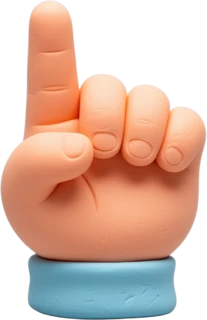
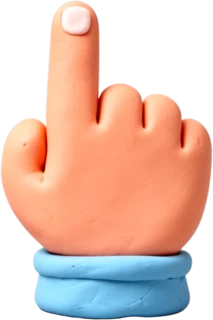
Bystrzakowo: rączka od strony grzbietu dłoni (widok z góry, jak ręka stukająca w ekran), nowy czubek palca

diff --git a/games/bystrzakowo/scripts/gen-art.ts b/games/bystrzakowo/scripts/gen-art.ts
@@ -392,9 +392,17 @@ if (process.argv.includes('--raczka')) {
     { out: 'ui', prefix: 'raczka-b', args: ['--workflow', 'flux2-sprite', '--count', '4', '--prompt', hand('a simple rounded cartoon pointing hand icon like a tutorial cursor, index finger pointing up, thumb tucked to the side, three fingers folded, white glove-like smooth plasticine with a soft orange outline cuff, exactly five fingers')] },
   );
 }
+if (process.argv.includes('--raczka2')) {
+  // Druga wersja (uwaga właściciela): grzbiet dłoni, widok z góry jak ręka stukająca w ekran, nie od strony wnętrza dłoni.
+  const hand = (what: string) => `${what}, single object, centered, ${STYLE}, plain light gray background`;
+  tasks.push(
+    { out: 'ui', prefix: 'raczka-c', args: ['--workflow', 'flux2-sprite', '--count', '4', '--prompt', hand('a cute chubby cartoon child right hand seen from above showing the back of the hand, knuckles on top, palm facing away from the viewer, the index finger stretched straight up, the other three fingers folded under the hand and hidden, thumb tucked along the side, warm peach skin, a short light blue sleeve cuff at the wrist at the bottom, like a hand tapping a touchscreen')] },
+    { out: 'ui', prefix: 'raczka-d', args: ['--workflow', 'flux2-sprite', '--count', '4', '--prompt', hand('a cartoon tutorial pointer hand icon, view of the back of a right hand from above, smooth rounded knuckles visible, no palm and no fingernails of the folded fingers visible, index finger pointing straight up with a small fingernail on its tip, warm peach plasticine skin, light blue sleeve cuff at the bottom')] },
+  );
+}
 
 for (const item of ITEMS) {
-  if ((process.argv.includes('--warsztat') || process.argv.includes('--zebatka') || process.argv.includes('--sciezka') || process.argv.includes('--znaki') || process.argv.includes('--pracownia') || process.argv.includes('--dodatki') || process.argv.includes('--historyjki') || process.argv.includes('--polana') || process.argv.includes('--kolorowanki2') || process.argv.includes('--krajobrazy') || process.argv.includes('--balwan') || process.argv.includes('--historyjki2') || process.argv.includes('--historyjki3') || process.argv.includes('--historyjki4') || process.argv.includes('--historyjki5') || process.argv.includes('--historyjki6') || process.argv.includes('--historyjki7') || process.argv.includes('--emocje2') || process.argv.includes('--raczka')) && !only) break;
+  if ((process.argv.includes('--warsztat') || process.argv.includes('--zebatka') || process.argv.includes('--sciezka') || process.argv.includes('--znaki') || process.argv.includes('--pracownia') || process.argv.includes('--dodatki') || process.argv.includes('--historyjki') || process.argv.includes('--polana') || process.argv.includes('--kolorowanki2') || process.argv.includes('--krajobrazy') || process.argv.includes('--balwan') || process.argv.includes('--historyjki2') || process.argv.includes('--historyjki3') || process.argv.includes('--historyjki4') || process.argv.includes('--historyjki5') || process.argv.includes('--historyjki6') || process.argv.includes('--historyjki7') || process.argv.includes('--emocje2') || process.argv.includes('--raczka') || process.argv.includes('--raczka2')) && !only) break;
   if (only && !only.has(item.id)) continue;
   if (!only && existsSync(join(repo, 'games/bystrzakowo/public/art/items', `${item.id}.webp`))) continue;
   if (existsSync(join(raw, 'items', `${item.id}-${SEED}.png`))) continue;

diff --git a/games/bystrzakowo/src/hand.ts b/games/bystrzakowo/src/hand.ts
@@ -186,7 +186,7 @@ export class Hand extends Container {
 }
 
 /** Czubek palca na grafice rączki (ułamki szerokości i wysokości tekstury). */
-export const HAND_TIP = { x: 0.24, y: 0.03 };
+export const HAND_TIP = { x: 0.35, y: 0.03 };
 
 /** Zapasowa rączka z kształtów (gdy grafika się nie wczytała). */
 function drawnHand(size: number): Graphics {

diff --git a/docs/bystrzakowo.md b/docs/bystrzakowo.md
@@ -80,7 +80,7 @@ Decyzje właściciela: krótkie powitanie rodzica, wiek ustawia start, rączka i
   - 6+: poziom 2.
 
   Dalej trudność dopasowuje się jak dotąd. Wiek można zmienić w strefie rodzica (Ustawienia). Zmiana nie rusza zabaw, w które dziecko już grało. Zerowanie postępów zostawia wiek, imię, język i to, że powitanie już było.
-- **Rączka** (`src/hand.ts`, grafika z Fluxa `ui/raczka-a-203`):
+- **Rączka** (`src/hand.ts`, grafika z Fluxa `ui/raczka-d-302`, grzbiet dłoni):
   - pokazuje gest przy pierwszym razie w każdej zabawie, w pętli, aż dziecko dotknie ekranu;
   - rodzaje gestów: stuknięcie (w dobrą odpowiedź), przeciągnięcie (pierwszy element na swoje miejsce), prowadzenie palcem (kreska litery, kropki, labirynt);
   - w kolorowance pokazuje wybór koloru i stuknięcie w pole, w melodii stuka w sztabki po pokazie Lusi;
